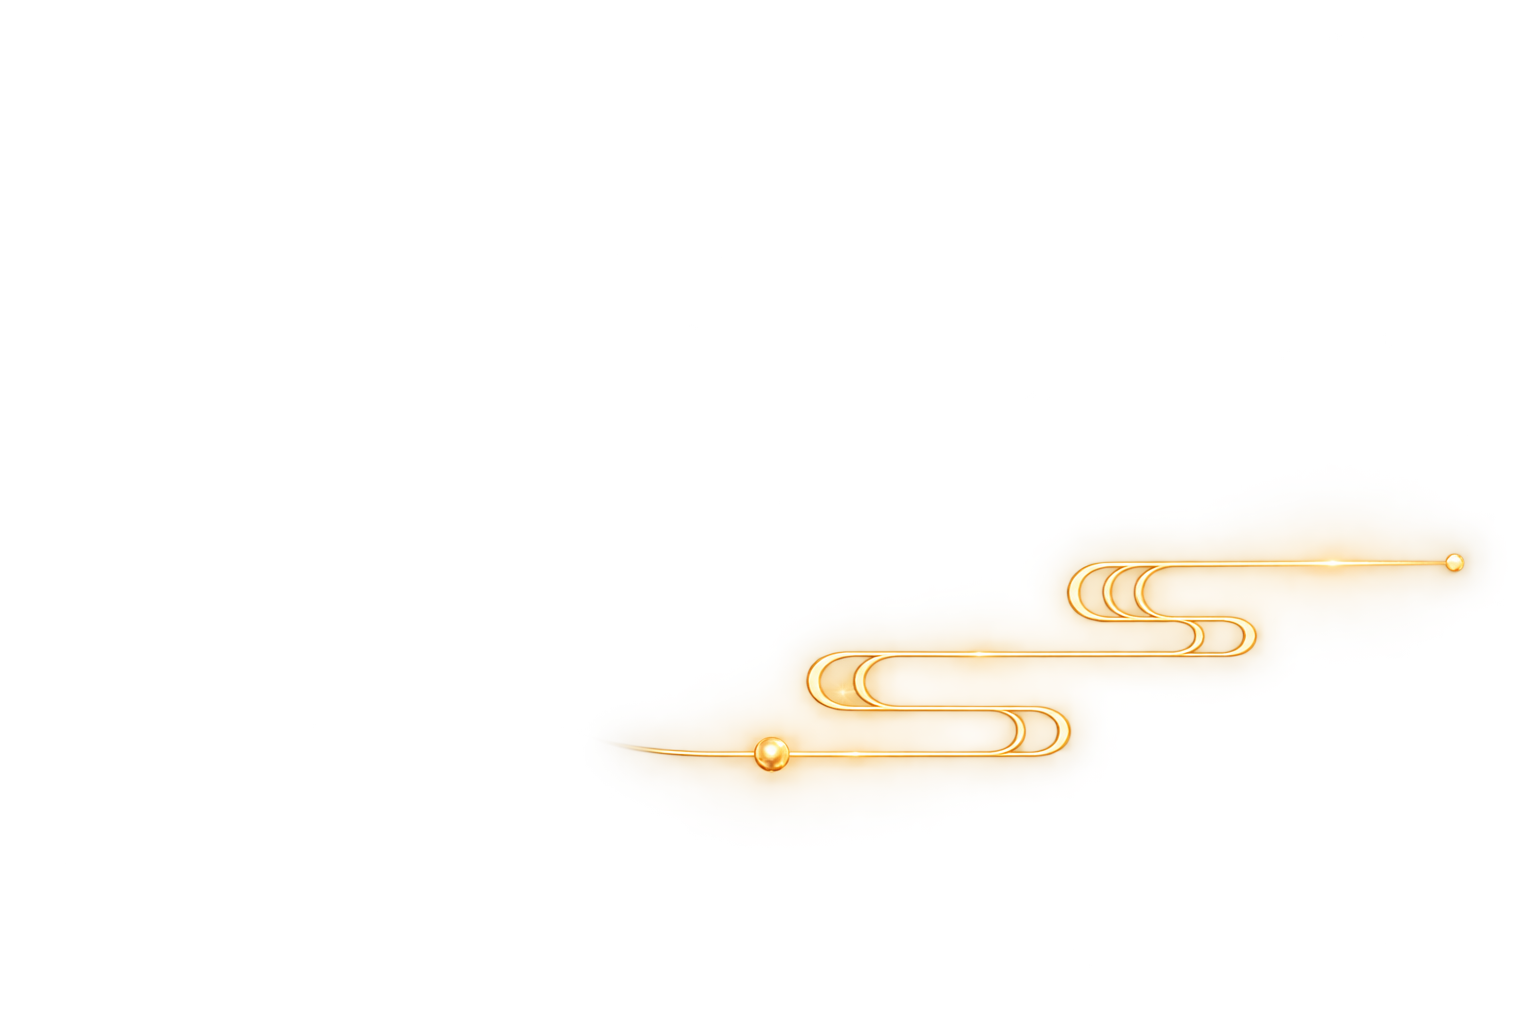
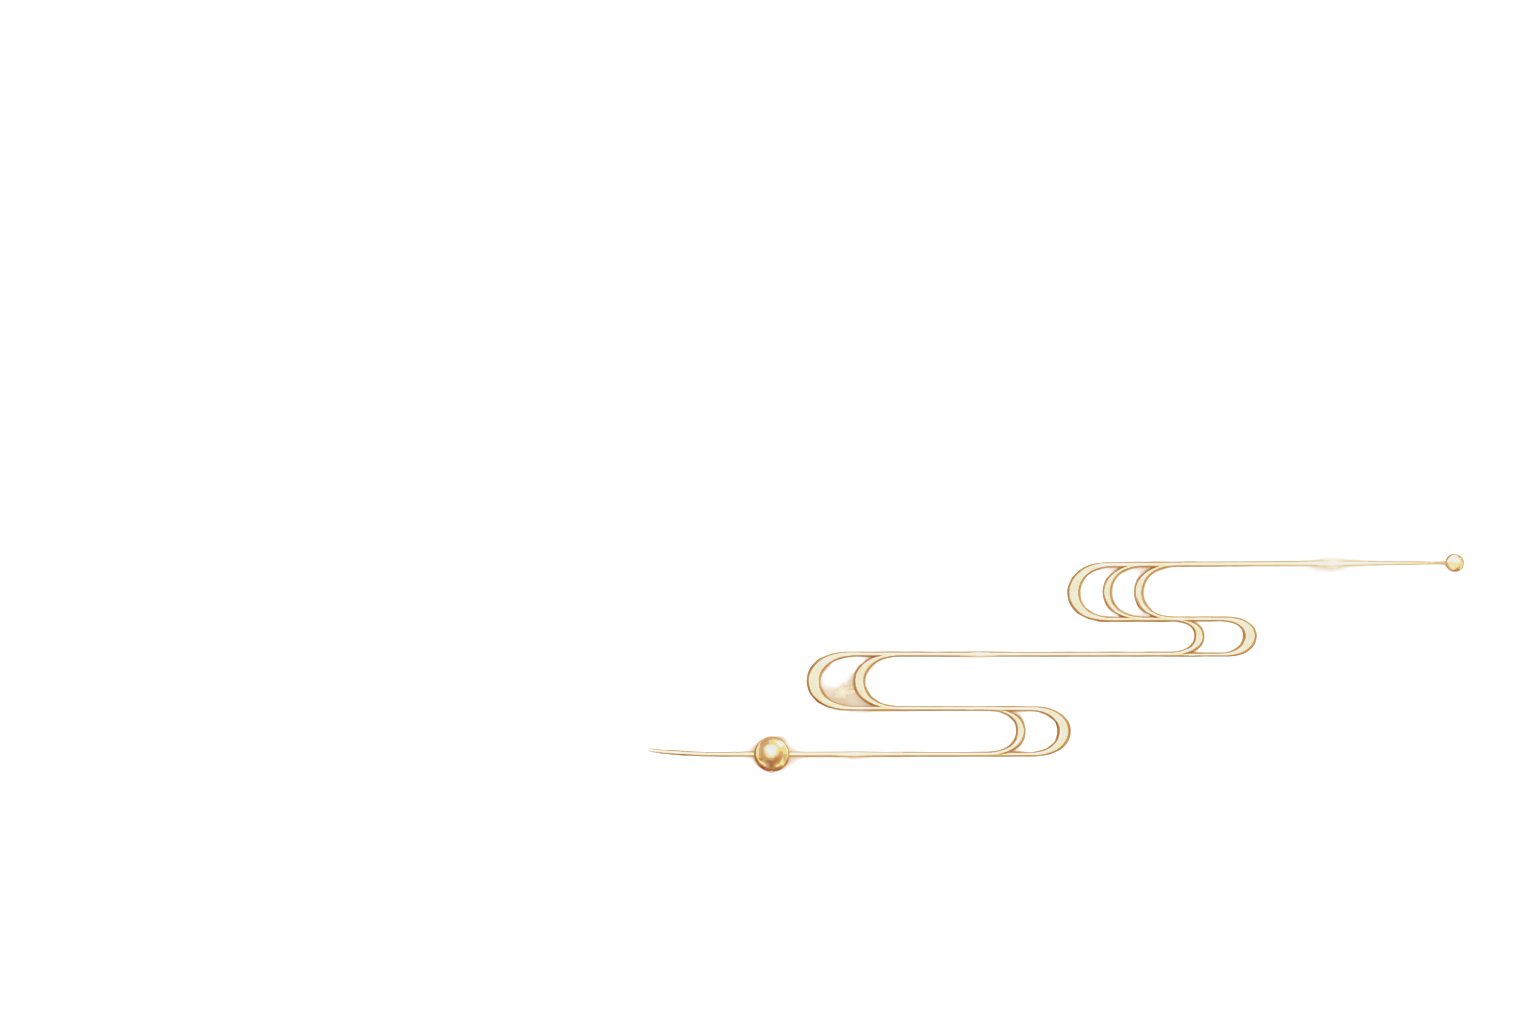
111

Changed region(s): [[0.4062, 0.5, 0.9688, 0.7812]]

diff --git a/src/pixi/layers/SceneThemeLayer.ts b/src/pixi/layers/SceneThemeLayer.ts
@@ -65,17 +65,17 @@ export class SceneThemeLayer {
     this.wallAssembly.addChild(this.wallScenery, this.wallLampGlow, this.wallDecorations);
     this.wallScenery.mask = this.wallSceneryMask;
     this.wallScenery.addChild(this.wallSceneryMask);
-    const radialGlow = TexturePipeline.getInstance().glowTexture;
+    const radialGlow = TexturePipeline.getInstance().wallLampGlowTexture;
     for (let index = 0; index < 2; index += 1) {
       const halo = new Sprite(radialGlow ?? Texture.EMPTY);
       halo.anchor.set(0.5);
-      halo.tint = 0xffa936;
-      halo.alpha = radialGlow ? 0.30 : 0;
+      halo.tint = 0xffb84a;
+      halo.alpha = radialGlow ? 0.48 : 0;
       halo.blendMode = 'add';
       const paperSpill = new Sprite(radialGlow ?? Texture.EMPTY);
       paperSpill.anchor.set(0.5);
-      paperSpill.tint = 0xffd58b;
-      paperSpill.alpha = radialGlow ? 0.38 : 0;
+      paperSpill.tint = 0xffdfa0;
+      paperSpill.alpha = radialGlow ? 0.52 : 0;
       paperSpill.blendMode = 'add';
       const layers = [halo, paperSpill];
       this.wallLampGlowSprites.push(layers);
@@ -144,8 +144,10 @@ export class SceneThemeLayer {
     const cushion = getSceneComponentOption('cushion', selection.cushionId);
 
     if (wallpaperDecoration) {
-      this.portraitBackAssets.push(this.createAsset(this.portraitBack, wallpaperDecoration.backAsset, token));
-      this.portraitFrontAssets.push(this.createAsset(this.portraitFront, wallpaperDecoration.frontAsset, token));
+      this.portraitBackAssets.push(this.createAsset(this.portraitBack, this.resolvePortraitAsset(wallpaperDecoration.backAsset), token));
+      if (wallpaperDecoration.frontAsset) {
+        this.portraitFrontAssets.push(this.createAsset(this.portraitFront, this.resolvePortraitAsset(wallpaperDecoration.frontAsset), token));
+      }
     }
     if (wallScenery) this.wallAssemblyAssets.push({
       ...this.createAsset(this.wallScenery, this.resolveViewportAsset(wallScenery.asset), token),
@@ -179,6 +181,11 @@ export class SceneThemeLayer {
   }
 
   private resolveViewportAsset(spec: SceneThemeViewportAsset): SceneThemeViewportAsset {
+    const url = spec.responsiveAssets?.[this.getDeviceProfile()];
+    return url ? { ...spec, url } : spec;
+  }
+
+  private resolvePortraitAsset(spec: SceneThemePortraitAsset): SceneThemePortraitAsset {
     const url = spec.responsiveAssets?.[this.getDeviceProfile()];
     return url ? { ...spec, url } : spec;
   }
@@ -348,9 +355,9 @@ export class SceneThemeLayer {
     const centerX = (x - 0.5) * width;
     const centerY = y * height;
     halo.position.set(centerX, centerY);
-    halo.scale.set((width * 0.22) / halo.texture.width, (height * 0.22) / halo.texture.height);
+    halo.scale.set((width * 0.30) / halo.texture.width, (height * 0.27) / halo.texture.height);
     paperSpill.position.set(centerX, centerY);
-    paperSpill.scale.set((width * 0.12) / paperSpill.texture.width, (height * 0.14) / paperSpill.texture.height);
+    paperSpill.scale.set((width * 0.17) / paperSpill.texture.width, (height * 0.19) / paperSpill.texture.height);
     halo.visible = true;
     paperSpill.visible = true;
   }

diff --git a/src/pixi/scene/components/registry.ts b/src/pixi/scene/components/registry.ts
@@ -31,7 +31,7 @@ export interface ScenePortraitComponentOption {
   description: string;
   previewUrl: string;
   backAsset: SceneThemePortraitAsset;
-  frontAsset: SceneThemePortraitAsset;
+  frontAsset?: SceneThemePortraitAsset;
 }
 
 export interface SceneGroundComponentOption {
@@ -59,9 +59,11 @@ export const WALLPAPER_OPTIONS = [
 
 export const WALLPAPER_DECORATION_OPTIONS = [
   portrait({ id: 'plum_encircling', part: 'wallpaperDecoration', name: '梅枝流芳', poeticTitle: '春信绕影',
-    description: '白梅从左上环抱遗像，保留中心透明。', previewUrl: '/themes/classic_dawn/wall-overlays/plum-encircling.png',
-    backAsset: { url: '/themes/classic_dawn/wall-overlays/plum-encircling.png', widthInPortraits: 3.1, alpha: 0.88 },
-    frontAsset: { url: '/themes/classic_dawn/wall-overlays/plum-encircling-front.png', widthInPortraits: 1.7, dxInPortraits: -0.42, dyInPortraits: 0.26, alpha: 0.9 } }),
+    description: '淡色梅枝从左上入画，手机和平板使用各自构图。', previewUrl: '/themes/classic_dawn/wall-overlays/phone/plum-blossom-branch.png',
+    backAsset: { url: '/themes/classic_dawn/wall-overlays/phone/plum-blossom-branch.png',
+      responsiveAssets: { phone: '/themes/classic_dawn/wall-overlays/phone/plum-blossom-branch.png', tablet: '/themes/classic_dawn/wall-overlays/tablet/plum-blossom-branch.png' },
+      widthInPortraits: 3.5, dxInPortraits: -1.0, dyInPortraits: -1.15, alpha: 1 },
+  }),
 ] as const;
 
 export const WALL_SCENERY_OPTIONS = [
@@ -77,12 +79,12 @@ export const WALL_DECORATION_OPTIONS = [
     asset: { url: '/themes/classic_dawn/wall-decor/palace-fretwork-lamps.png', fit: 'width', alpha: 1,
       wallParts: [
         // Center lamps inside the slatted mounting panels; exclude the outer solid edge rails.
-        { frame: { x: 127, y: 131, width: 167, height: 737 }, anchor: {
-          x: 0.10, y: 0.32, widthRatio: 0.06,
+        { frame: { x: 232, y: 25, width: 199, height: 937 }, anchor: {
+          x: 0.10, y: 0.32, widthRatio: 0.056,
           centerRegionByProfile: { phone: { left: 32, right: 163 }, tablet: { left: 62, right: 257 } },
         } },
-        { frame: { x: 1243, y: 131, width: 167, height: 737 }, anchor: {
-          x: 0.90, y: 0.32, widthRatio: 0.06,
+        { frame: { x: 1104, y: 26, width: 200, height: 936 }, anchor: {
+          x: 0.90, y: 0.32, widthRatio: 0.056,
           centerRegionByProfile: { phone: { left: 1016, right: 1147 }, tablet: { left: 1791, right: 1986 } },
         } },
       ] } }),

diff --git a/src/pixi/assets/TexturePipeline.ts b/src/pixi/assets/TexturePipeline.ts
@@ -58,6 +58,7 @@ export class TexturePipeline {
 
   // 烛光与高光光晕贴图 (Additive Blending)
   public glowTexture: Texture | null = null;
+  public wallLampGlowTexture: Texture | null = null;
 
   // 花瓣粒子贴图
   public petalTextures: Partial<Record<FlowerType, Texture | null>> = {
@@ -95,6 +96,7 @@ export class TexturePipeline {
       // 1. 生成程序化柔和烟雾与烛光粒子纹理 (同步即时生成)
       this.smokeParticleTexture = this.generateSoftRadialTexture(64, 'rgba(235, 230, 222, 0.45)');
       this.glowTexture = this.generateCandleGlowTexture();
+      this.wallLampGlowTexture = this.generateWallLampGlowTexture();
 
       // 2. 生成各花系落花粒子纹理
       const petalColors: Record<FlowerType, string> = {
@@ -347,16 +349,33 @@ export class TexturePipeline {
 
     const center = size / 2;
     const grad = ctx.createRadialGradient(center, center, 2, center, center, center);
-    grad.addColorStop(0, 'rgba(255, 185, 55, 0.58)');    // 饱满暖金透光，烛照氛围明亮
-    grad.addColorStop(0.25, 'rgba(255, 148, 35, 0.38)'); // 温暖琥珀橙
-    grad.addColorStop(0.60, 'rgba(235, 92, 18, 0.15)');  // 幽微余韵
-    grad.addColorStop(1.0, 'rgba(200, 50, 0, 0)');        // 渐隐消散
+    grad.addColorStop(0, 'rgba(255, 185, 55, 0.58)');
+    grad.addColorStop(0.25, 'rgba(255, 148, 35, 0.38)');
+    grad.addColorStop(0.60, 'rgba(235, 92, 18, 0.15)');
+    grad.addColorStop(1.0, 'rgba(200, 50, 0, 0)');
 
     ctx.fillStyle = grad;
     ctx.beginPath();
     ctx.arc(center, center, center, 0, Math.PI * 2);
     ctx.fill();
 
+    return Texture.from(canvas);
+  }
+
+  public generateWallLampGlowTexture(): Texture {
+    const size = 256;
+    const canvas = document.createElement('canvas');
+    canvas.width = size;
+    canvas.height = size;
+    const ctx = canvas.getContext('2d')!;
+    const center = size / 2;
+    const grad = ctx.createRadialGradient(center, center, 2, center, center, center);
+    grad.addColorStop(0, 'rgba(255, 238, 198, 0.62)');
+    grad.addColorStop(0.28, 'rgba(255, 218, 148, 0.38)');
+    grad.addColorStop(0.62, 'rgba(245, 181, 93, 0.14)');
+    grad.addColorStop(1, 'rgba(222, 143, 54, 0)');
+    ctx.fillStyle = grad;
+    ctx.fillRect(0, 0, size, size);
     return Texture.from(canvas);
   }
 

diff --git a/src/types/sceneTheme.ts b/src/types/sceneTheme.ts
@@ -28,6 +28,7 @@ export interface SceneThemePortraitPlacement {
 /** 依附遗像锚点的透明资产，尺寸和位移都以遗像环直径为单位。 */
 export interface SceneThemePortraitAsset {
   url: string;
+  responsiveAssets?: Partial<Record<'phone' | 'tablet', string>>;
   widthInPortraits: number;
   dxInPortraits?: number;
   dyInPortraits?: number;
